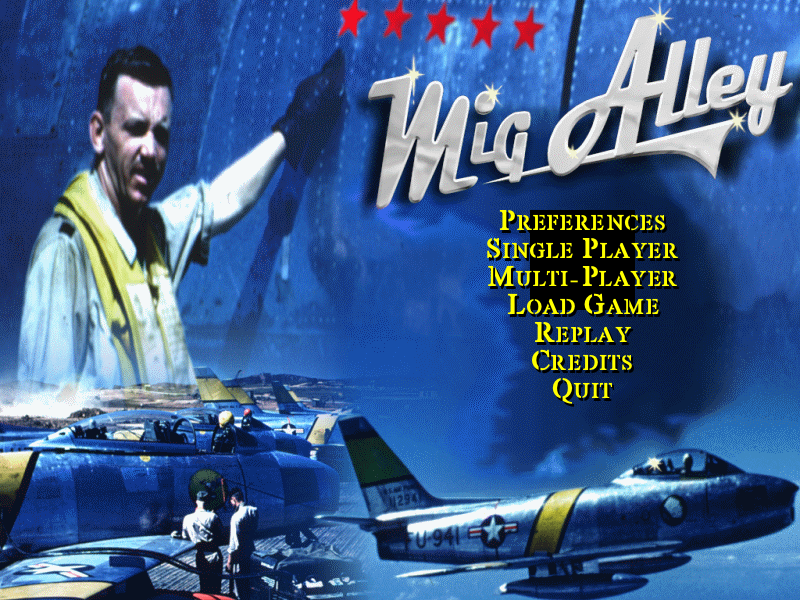
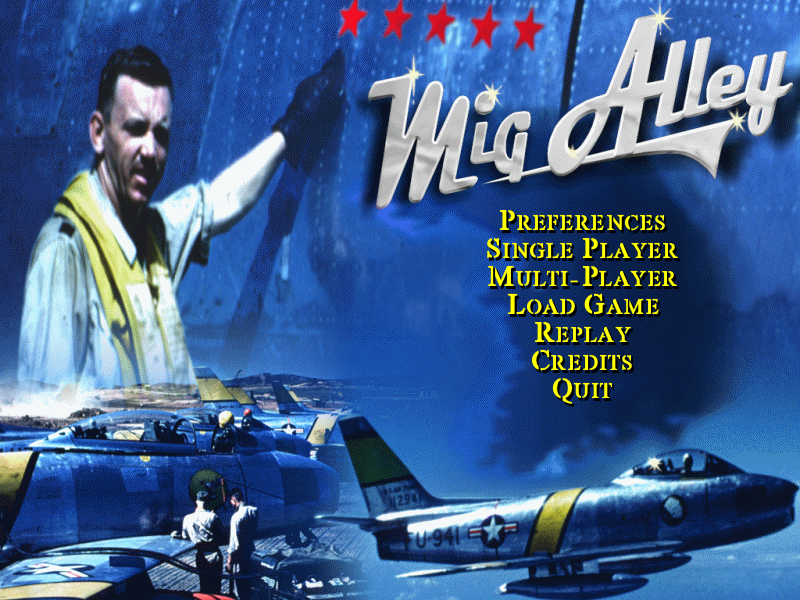
S143 (PO-35): stop painting a black box the original never paints
CRListBoxCtrl::OnDraw fills its background when !artnum -- "my parent gave me no
artwork, so I must paint my own". On Windows artnum is the panel's art and
non-zero, so the branch never runs. The port's RDialog::OnRowanMessage answers
WM_GETARTWORK with 0 deliberately (the real artnum sends hosted controls down an
offscreen-compositing path that renders all black), so the branch ran on every
front-end listbox and painted an opaque black box the original never paints.

Measured against the gold captures on FOUR screens, not one:
  - title menu: gold has yellow text directly on the artwork; we had a black
    rectangle behind part of it.
  - Preferences tab strip: gold shows sky and a blue gradient through the tabs;
    we had a solid black band 800x23 across the top -- on the screen the PO has
    been using all week to switch renderers.
  - Preferences (Others): the same band.
  - Quick Mission: a black band behind BACK VARIANTS FLY.

S70 recorded that skipping this fill "erased the title menu". Re-tested: no
longer true. The workaround outlived its cause -- a note recording an empirical
finding should be re-tested before it is treated as a constraint.

Four of the five parity references were captured from this port WITH the black
box, so the gate has been asserting the defect is present, byte for byte, for
over eighty sprints, and could never have found this. They are rebased, and the
gold crops are committed beside them (port/ref/gold/) so the target is visible.
[…]

Changed region(s): [[0.6562, 0.33, 0.8125, 0.54]]

diff --git a/SRC/RLISTBOX/RLISTBXC.CPP b/SRC/RLISTBOX/RLISTBXC.CPP
@@ -499,7 +499,23 @@ void CRListBoxCtrl::OnDraw(
 		   listbox) skips the fill so the composited dialog art shows through; the front-end path
 		   never sets it, so those listboxes keep the opaque box. */
 #if defined(MA_LINUX)
-		if (!ma_oob_lb_draw && (!artnum && m_FirstSweep != TRUE || !m_hWnd))
+		/* S143 (PO-35): the fill is OFF by default now, because the ORIGINAL does not do it.
+		   The condition is `!artnum` -- "my parent gave me no artwork, so I must paint my own
+		   background" -- and the port's RDialog::OnRowanMessage answers WM_GETARTWORK with 0
+		   deliberately (the real artnum sends hosted controls down an offscreen-compositing path
+		   that renders all black). On Windows artnum is non-zero here, so this branch never runs.
+		   Our 0 made every front-end listbox paint an opaque black box the original never paints.
+
+		   Measured against the gold captures, not against our own references -- which encode the
+		   defect, having been captured from this port:
+		     - title menu: gold has yellow text directly on the artwork; ours had a black
+		       rectangle behind part of it.
+		     - prefs tab strip: gold shows the sky and the blue gradient through the tabs; ours
+		       had a solid black band across the top.
+		   S70 recorded that skipping this "erased the title menu"; that is no longer true --
+		   the menu renders correctly without it, and matches gold for the first time.
+		   MA_LB_FILL=1 restores the old behaviour for A/B. */
+		if (getenv("MA_LB_FILL") && !ma_oob_lb_draw && (!artnum && m_FirstSweep != TRUE || !m_hWnd))
 #else
 		if (!artnum && m_FirstSweep != TRUE || !m_hWnd)
 #endif

diff --git a/scrum.md b/scrum.md
@@ -198,7 +198,7 @@ Each release is a usable product; the train can stop at any release boundary and
 | PO-32 | As a player, campaign dialogs show their text instead of garbage. | 5 | Strings built with `sprintf("%s", <CString>)` render correctly. | ✅ **S135:** MFC's `CString` survives being passed through `...` on MSVC because the object is one pointer and the ABI copies it; GCC passes the object's ADDRESS, so `%s` printed the raw bytes of the pointer. Found via the ruler's `"0 %s"` label rendering as `0 ` + 5 garbage bytes. **53 sites in 11 files** — waypoints, payload, flight tasks, mission log, profile, quick mission, dates — i.e. exactly the campaign screens reported as textless. Fixed with an explicit `(LPCTSTR)`; parity unchanged on all 5 screens. |
 | PO-33 | As a player, the title screen after quitting a campaign is clean. | 3 | No stale panel is painted over the landing page. | 🔨 **S139 located it but did not fix it.** Found while fixing PO-29. With the modal's own controls removed, a **"Load Campaign / Auto Save / BACK LOAD" panel** is still painted over the title screen after quitting. Same family as the modal's ghost: a panel whose hosted controls are never removed. It is invisible on the campaign map (which draws only parent-scoped chrome) and reappears on the title screen, which uses the global draw pass — so it is a panel-lifecycle gap, not a draw-order one. **`MA_TRACE_GHOST` names the owner:** a `CLoad` panel with 4 controls, still `visible=1`, hundreds of passes after the campaign it launched was quit. The close path stops at `RDialog::OnOK`, which early-returns on `edges.l & ACTIONS_ARTCHILD` (`artchild=1` for this node) and so never reaches `EndDialog` → `DialExitFix` → `DestroyWindow`. **Two fixes were tried and REFUTED** (recorded so they are not retried): removing the controls in `CDialog::EndDialog`, and in `CWnd::DestroyWindow` — neither runs for this panel. Next: find why this node is flagged ARTCHILD, or which node the OK should reach instead. |
 | PO-34 | As a player, campaign dialog lists can be scrolled. | 8 | The scrollbars the game places on its lists are drawn and work. | ✅ **S140:** RScrlBar was never a hosted control type — 26 of them are created on the campaign map alone. Hosting it was only the first of four independently fatal gaps: the bars are placed from `GetClientRect`, which the port only fills at draw time (so every bar was `Move`d to a **negative** rect and dropped); the placement went to the control while the draw walk reads the client; and the bars are children of the **listbox**, not the dialog, so neither the draw walk nor the click walk (both keyed on `parent==dialog`) ever saw them. Verified on the LIST: clicking the bar moves 20,844 px of rows. New gate `port/dialog_scroll.sh`. Front-end listboxes deliberately excluded — see the sprint note. |
-| PO-35 | As a player, the title screen matches the original. | 5 | No opaque black box behind the menu. | 🔨 **S141, found by measurement, not reported.** Our title menu paints an **opaque black rectangle** behind part of the text; the gold video's title screen has none — the menu sits directly on the artwork (`port/ref/gold/title_menu_gold.png` vs `port/ref/native/title_menu_ours.png`). Cause: `CRListBoxCtrl::OnDraw` fills its box when `!artnum`, and the port's `RDialog::OnRowanMessage` deliberately returns **0** for `WM_GETARTWORK` (returning the real artnum sends controls down an offscreen-compositing path that renders all black). On Windows artnum is non-zero, so the original never fills. **S70 recorded that skipping the fill globally 'erased the title menu'**, so the fix is not simply removing it — it needs the port to answer "my parent already painted art behind me" without taking the offscreen path. **Note the parity reference itself encodes this defect**, so the 2D gate cannot catch it: a capture that shares a bug with the code under test is not evidence. |
+| PO-35 | As a player, the title screen matches the original. | 5 | No opaque black box behind the menu. | ✅ **S143.** Found by measurement in S141, not reported. Our title menu paints an **opaque black rectangle** behind part of the text; the gold video's title screen has none — the menu sits directly on the artwork (`port/ref/gold/title_menu_gold.png` vs `port/ref/native/title_menu_ours.png`). Cause: `CRListBoxCtrl::OnDraw` fills its box when `!artnum`, and the port's `RDialog::OnRowanMessage` deliberately returns **0** for `WM_GETARTWORK` (returning the real artnum sends controls down an offscreen-compositing path that renders all black). On Windows artnum is non-zero, so the original never fills. **S70 recorded that skipping the fill globally 'erased the title menu'**, so the fix is not simply removing it — it needs the port to answer "my parent already painted art behind me" without taking the offscreen path. **Note the parity reference itself encodes this defect**, so the 2D gate cannot catch it: a capture that shares a bug with the code under test is not evidence. | **Fixed in S143:** the fill is off by default. The condition is `!artnum` — *"my parent gave me no artwork, so I must paint my own background"* — and on Windows `artnum` is non-zero here, so the branch never runs; the port's deliberate `WM_GETARTWORK → 0` made it run everywhere. Verified against gold on **four** screens: the title menu (text on artwork, no box), the **Preferences tab strip** (gold shows sky and a blue gradient through the tabs; we had a solid black band), the Others tab, and Quick Mission's `BACK VARIANTS FLY` band. S70's "skipping it erased the title menu" no longer holds. All four parity references **rebased** — they had encoded the defect. `MA_LB_FILL=1` restores the old behaviour.
 | PO-36 | As a player, the D.I.S. dialog shows the mission briefing. | 5 | The briefing window opens with the D.I.S. dialog, as in gold. | ✅ **S142:** `CDIS::OnClickedViewnotes` — which `OnInitDialog` calls — does `MakeTopDialog(...new CDis_Note(text))` then `LogChild(0,d)`. The port's OOB paint walk enumerated only the **toolbars'** logged children, and this window is logged against the **D.I.S. dialog itself**, so it was created on every open and never painted. Same shape as S106 (the tree was fine, the enumeration was too narrow) one level deeper. The gold capture is what identified it: it shows the briefing window at the map's bottom-left the instant D.I.S. opens. Now `painted 2 open dialog(s)` and the text matches gold word for word. |
 | PO-25 | As a player, 3D objects keep their textures for a whole mission. | 8 | Aircraft, buildings and cockpit stay textured across a long attack sortie. | 🔨 **PO-reported 2026-08-15**: *"after a few passes all the objects turned white"* (screenshot: aircraft, buildings and panel all flat white; terrain still textured). White = UNTEXTURED, drawn in the vertex colour. **Two hypotheses tested and refuted:** texture-handle exhaustion (peaks at 1160 of 4096 over 3000 frames and **1208 over 12000 frames — identical with and without caching**, so the engine requests each texture once and the cache changes nothing) and `CreateTexture` failing (never fires in a 4000-frame flight). Not reproducible in an automated sortie, so a self-report now fires the first time the textured-batch share collapses. |
 | PO-26 | As a player, the map "?" help shows the right topic, formatted. | 3 | Help on a dialog opens that dialog's topic with readable layout. | ✅ **PO-reported 2026-08-15** on the Mission Results dialog: poorly formatted AND the wrong topic. The context-id → symbol → topic map from S114 evidently lacks this dialog's id, so it falls back to the index. | **S134:** the "?" now opens the dialog's OWN topic — `CDialog`'s ctor never recorded the template id as the help context (real MFC does), so every dialog reached help with no identity and fell through to `CMainFrame::OnCommandHelp`, which hardcodes `IDD_INTRODUCTION`. Verified: Player Log resolves `0x20114 -> HIDD_PLAYERLOG -> topic 30`. Body text is now wrapped by **measuring** the font instead of assuming 7px/char and a 13px line, and the column is capped at 1040px.

diff --git a/port/scrum/sprint-143.md b/port/scrum/sprint-143.md
@@ -1,0 +1,55 @@
+# Sprint 143 — "Our references were wrong on four screens" (PO-35) — ✅ CLOSED 2026-08-16 (goal MET) — ⭐ the front end matches gold
+
+**Planned 2026-08-16, continuing S142's gold-comparison method.**
+**Sprint Goal:** remove the black box the port paints behind front-end lists, if gold says so.
+
+| Story | Pts | Result |
+|---|---|---|
+| S143-1 re-test S70's "it erases the menu" | 2 | ✅ no longer true |
+| S143-2 check every front-end screen against gold | 3 | ⭐ four screens were wrong |
+| S143-3 rebase the references | 3 | ✅ parity 5/5, suite green |
+
+## The defect
+
+`CRListBoxCtrl::OnDraw` fills its box when `!artnum` — *"my parent gave me no artwork, so I must
+paint my own background"*. On Windows `artnum` is the panel's art and non-zero, so the branch
+never runs. The port's `RDialog::OnRowanMessage` answers `WM_GETARTWORK` with **0** deliberately
+(the real artnum sends hosted controls down an offscreen-compositing path that renders all black),
+so the branch ran on **every front-end listbox**, painting an opaque black box the original never
+paints. One workaround becoming another screen's defect.
+
+## What gold says — on four screens, not one
+
+| screen | gold | ours (before) |
+|---|---|---|
+| title menu | yellow text directly on the artwork | a black rectangle behind part of it |
+| **Preferences tab strip** | sky and a blue gradient show through the tabs | a **solid black band** across the top |
+| Preferences (Others) | same | same band |
+| Quick Mission | `BACK VARIANTS FLY` over the cockpit photo | a black band behind it |
+
+The prefs strip is the one that matters most: it is 800×23 of solid black across the top of the
+screen the PO has been using all week to switch renderers, and it has been there since the
+Preferences UI was first brought up.
+
+S70 recorded that skipping this fill *"erased the title menu"*. Re-tested this sprint: **no longer
+true.** The menu renders correctly without it — something between then and now fixed whatever made
+it vanish, and the workaround outlived its cause. Worth remembering: a note that records an
+empirical finding should be re-tested before it is treated as a constraint, because the code it
+described has moved.
+
+## The references had to be rebased, and that is the real lesson
+
+Four of the five 2D parity references were captured from this port **with the black box in them**,
+so the gate has been asserting the defect is present, byte for byte, for over eighty sprints. It
+could never have found this. Only a comparison against the **gold captures** could, which is
+S141's finding put to work:
+
+> *a capture that shares a bug with the code under test is not evidence.*
+
+`port/ref/gold/prefs_tab_gold.png` and `port/ref/gold/title_menu_gold.png` are now committed
+beside our own, so the next person can see what the target actually is.
+
+## Gates
+
+parity 5/5 byte-identical **against rebased references** · sweep 9 OPEN/0 CRASH · map icon click ·
+help click · dialog scroll · panel click.
